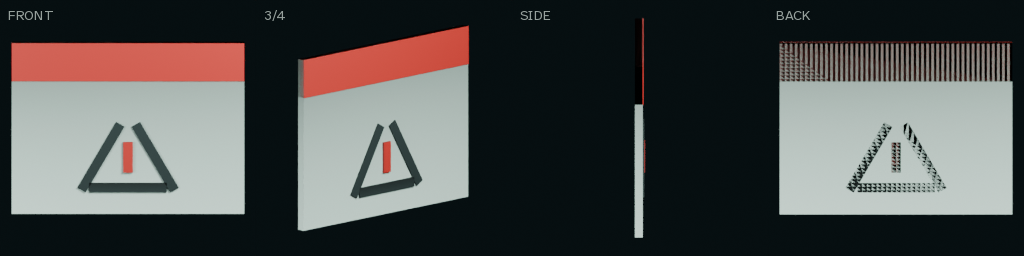
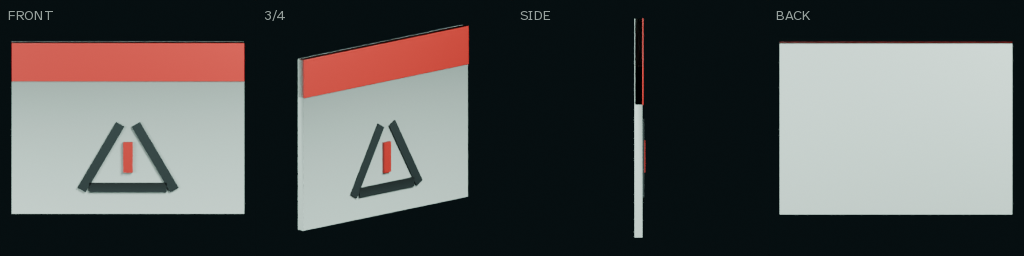
Hazard sign: lift the stencil parts off the plate's back face
Their back faces were coplanar with the plate's, so the turnaround's back view
z-fought and rendered differently on each CI runner.

Claude-Session: https://claude.ai/code/session_012H4uhpUrBV53caFx9HxT1N

diff --git a/tools/assets/props_power_containment.py b/tools/assets/props_power_containment.py
@@ -115,11 +115,11 @@ def build_hazard_sign() -> None:
 
     m = {**p._mats(), **_extra()}
     box("Plate", (0.6, 0.02, 0.45), (0, 0, 0.225), m["paper"])
-    box("Band", (0.6, 0.022, 0.1), (0, -0.001, 0.4), m["alarm"])
+    box("Band", (0.6, 0.022, 0.1), (0, -0.002, 0.4), m["alarm"])
     for i, (x, z, turn) in enumerate(((-0.07, 0.15, -60), (0.07, 0.15, 60), (0.0, 0.07, 0))):
-        bar = box(f"Tri{i}", (0.2, 0.024, 0.025), (x, -0.002, z), m["dark"])
+        bar = box(f"Tri{i}", (0.2, 0.024, 0.025), (x, -0.003, z), m["dark"])
         bar.rotation_euler = (0, math.radians(turn), 0)
-    box("Mark", (0.025, 0.026, 0.08), (0, -0.003, 0.15), m["alarm"])
+    box("Mark", (0.025, 0.026, 0.08), (0, -0.005, 0.15), m["alarm"])
     p._merge("HazardSign")
 
 
